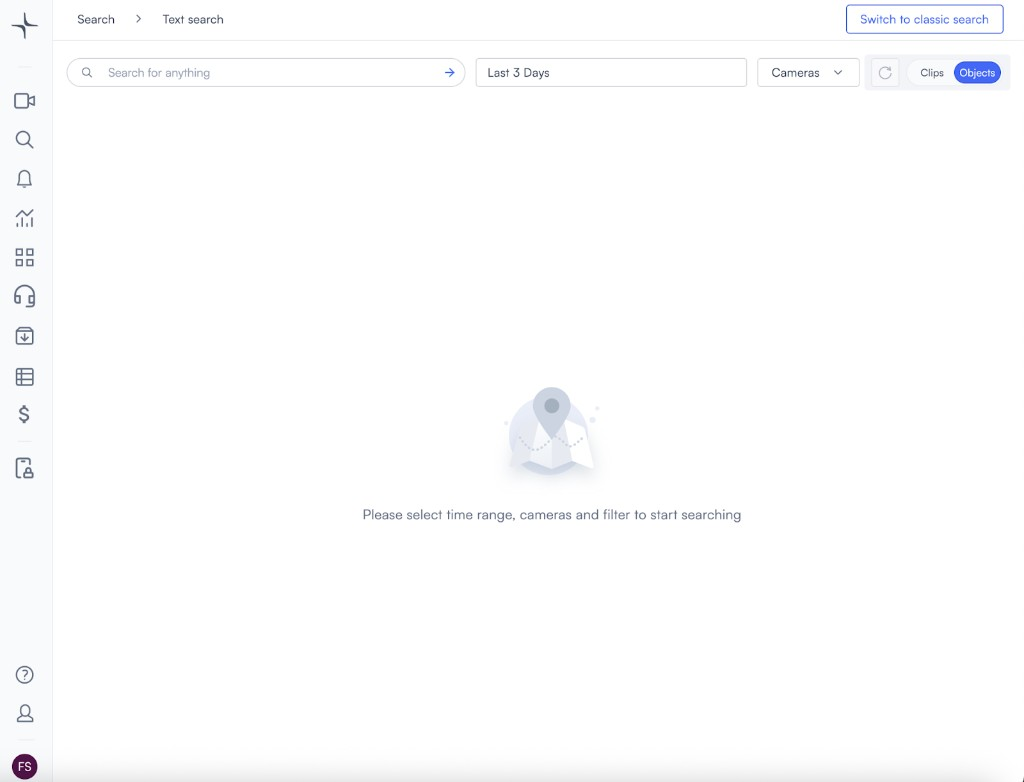
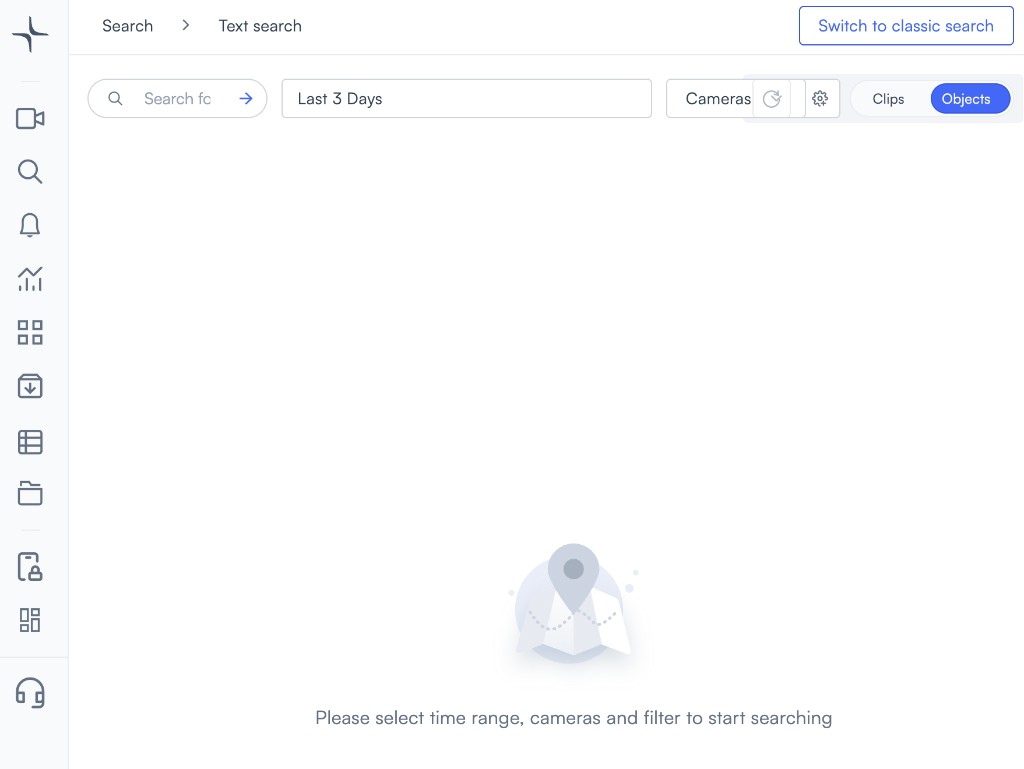
free-text-search and timelapse

diff --git a/databases-analytics-and-search/free-text-search.md b/databases-analytics-and-search/free-text-search.md
@@ -16,24 +16,29 @@ For example, search for a person carrying a box through a door. You can then nar
 
 ## Start a free text search
 
-Open the text search mode first, then choose the cameras and enter your query.
+Switch from classic search to **Text search**, set time range and cameras, then type a natural-language query.
 
 1. Open **Search**.
 
+   In the left sidebar, select **Search** if it is not already selected. You see classic search: category and precision controls, **Clips** and **Objects**, and **Switch to text search** in the header.
+
     <div align="center" data-with-frame="true"><img src="../.gitbook/assets/databases-analytics-and-search/free-text-search-start-screen.png" alt="" width="563"></div>
+
 2. Select **Switch to text search**.
 
-    The text search view opens. It includes the text query bar, camera selector, time range, and other search controls.
+   The **Text search** page loads (**Search** and **Text search** in the breadcrumbs). To return to structured filters, select **Switch to classic search**. The bar shows the text field, a time range such as **Last 3 Days**, **Cameras**, and **Clips** / **Objects** (for example **Objects** selected). Until you finish setup, the page can show a prompt to choose time range, cameras, and filter.
 
     <div align="center" data-with-frame="true"><img src="../.gitbook/assets/databases-analytics-and-search/free-text-search-text-search-screen.png" alt="" width="563"></div>
-3. Select the cameras you want to search.
 
-    The camera selection dialog lets you choose one or more locations and cameras.
+3. Select **Cameras**.
+
+   In **Choose cameras up to 100**, use **Search cameras and locations** if you need to narrow the list. Expand a location, select the cameras you want (you can pick up to 100), then select **Select**. The footer shows how many cameras you chose (for example **Selected 2 out of 100**).
 
     <div align="center" data-with-frame="true"><img src="../.gitbook/assets/databases-analytics-and-search/free-text-search-camera-selection-dialog.png" alt="" width="563"></div>
-4. Enter a description of what you want to find.
 
-    For example, you can search for `person in a black shirt walking through a door`.
+4. Enter a description in the search field, then run the search.
+
+   For example, type `A person in black walking` and use the search control next to the field. With **Objects** selected, matching detections appear in a grid with timestamps and camera names; switch to **Clips** when you want clip-based results instead.
 
     <div align="center" data-with-frame="true"><img src="../.gitbook/assets/databases-analytics-and-search/free-text-search-results-example.png" alt="" width="563"></div>
 

diff --git a/live-video-monitoring-and-operations/lumana-timelapse.md b/live-video-monitoring-and-operations/lumana-timelapse.md
@@ -16,12 +16,18 @@ Timelapse snapshots are not generated retroactively. If you increase retention t
 
 Use **Create timelapse** when you want a fast-motion replay from snapshots that fall inside your current **Snapshot retention days** window.
 
-1. Open the camera from **Devices** or **Live view**.
-2. Open **Create timelapse** from the camera or timelapse toolbar (wording can vary slightly by deployment).
-3. Enter a **Name**, confirm **Camera**, set **Timeframe** (for example **Last 3 Days**), **Duration**, and any timestamp or label placement options.
+1. Open **Archives**.
+
+   Select the **Archives** icon in the left sidebar.
+
+2. Select **Create timelapse** in the upper right.
+
+<div align="center" data-with-frame="true"><img src="../.gitbook/assets/live-video-monitoring-and-operations/archives-create-timelapse.png" alt="Archives page: sidebar with Archives selected, search and filter controls, archives table, and Create timelapse and Create archive in the upper right." width="563"></div>
+
+3. Enter a **Name**, select **Camera**, set **Timeframe** (for example **Last 3 Days**), **Duration**, and placement for **Timestamp location** and **Camera name and location**. Optionally set **Add to case**.
 4. Select **Create**.
 
-<div align="center" data-with-frame="true"><img src="../.gitbook/assets/live-video-monitoring-and-operations/lumana-timelapse-create-dialog.png" alt="Create timelapse dialog with Name, Camera, Timeframe, Duration, timestamp placement, and Create." width="563"></div>
+<div align="center" data-with-frame="true"><img src="../.gitbook/assets/live-video-monitoring-and-operations/lumana-timelapse-create-dialog.png" alt="Create timelapse dialog with Name, Camera, Timeframe, Duration, Timestamp location, Camera name and location, Add to case, Cancel, and Create." width="563"></div>
 
 ## Extend timelapse retention
 
